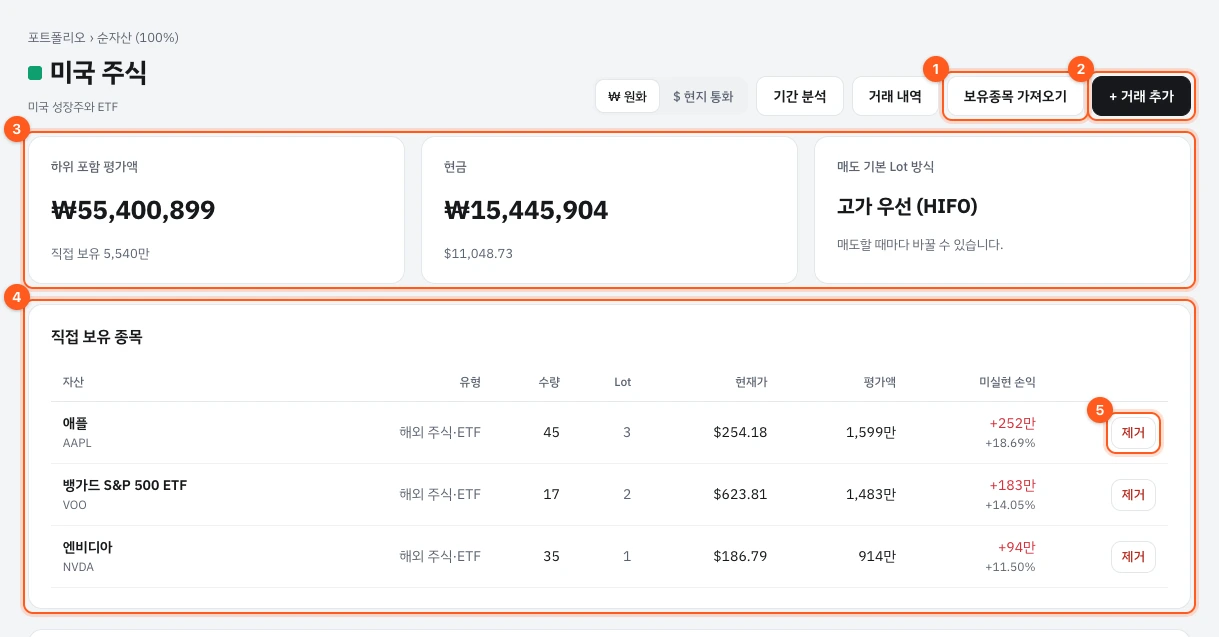
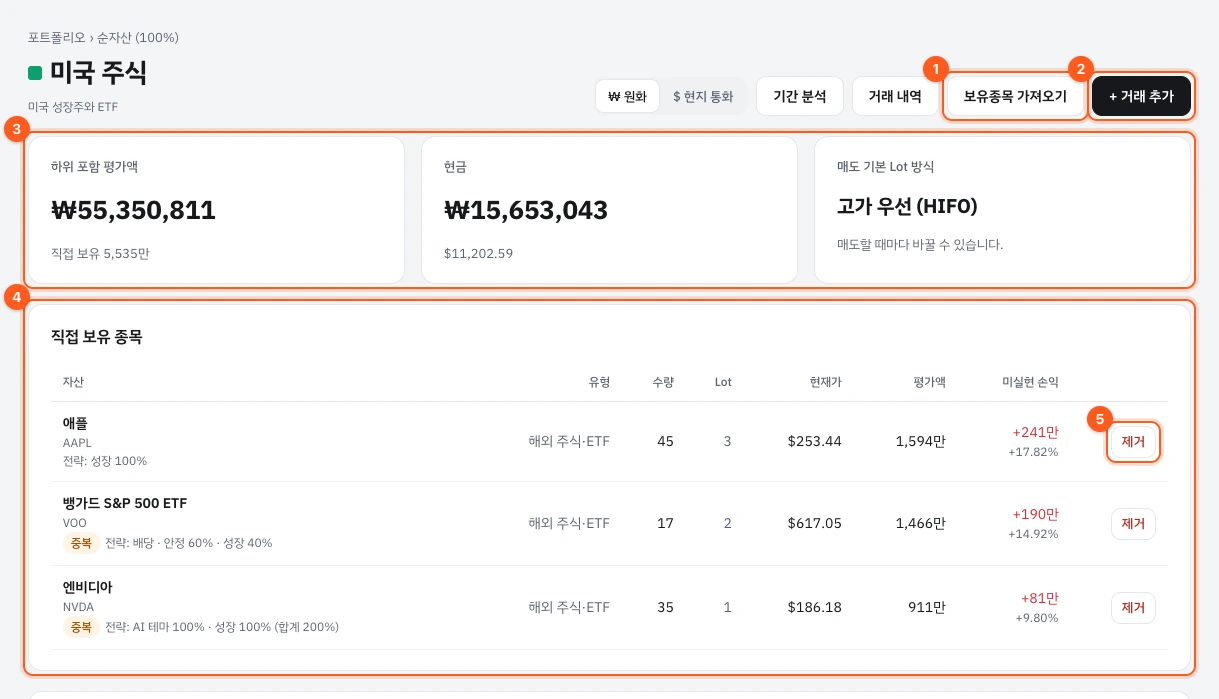
Document strategy portfolios, with their screens; retake the screens that now show strategies

diff --git a/scripts/docs/capture.ts b/scripts/docs/capture.ts
@@ -69,6 +69,8 @@ interface Ids {
   root: string;
   us: string;
   home: string;
+  /** A split strategy portfolio that shares holdings with the others */
+  growth: string;
   apartment: string;
   aapl: string;
   nvdaJournal: string;
@@ -120,6 +122,28 @@ const SHOTS: Shot[] = [
     wait: 1500,
     clip: [{ sel: '.page-head' }, { sel: '.card.kpi', closest: 'section' }, card('직접 보유 종목')],
     marks: [{ sel: 'a', text: '보유종목 가져오기', within: { sel: '.page-head' } }, { sel: 'a', text: '+ 거래 추가' }, { sel: '.card.kpi', closest: 'section' }, card('직접 보유 종목'), { sel: 'button', text: '제거', within: card('직접 보유 종목') }],
+  },
+  {
+    file: 'portfolio-strategies',
+    path: () => '/portfolios',
+    wait: 1200,
+    width: 1280,
+    clip: [{ sel: '#strategies' }],
+    marks: [{ sel: 'td', text: '겹쳐 담기 허용' }, { sel: '#strategies .badge', text: '중복' }, { sel: 'a', text: '분석', within: { sel: '#strategies' } }],
+  },
+  {
+    file: 'strategy-detail',
+    path: (ids) => `/portfolios/${ids.growth}`,
+    wait: 1500,
+    width: 1280,
+    clip: [{ sel: '.page-head' }, { sel: '.card.kpi', closest: 'section' }, card('담은 종목'), card('계좌에서 담기')],
+    marks: [
+      { sel: '.card.kpi', closest: 'section' },
+      { sel: '.share-form', within: card('담은 종목') },
+      { sel: '.strategy-tag', within: card('담은 종목') },
+      { sel: 'button', text: '빼기', within: card('담은 종목') },
+      { sel: 'button', text: '담기', within: card('계좌에서 담기') },
+    ],
   },
   {
     file: 'assets',
@@ -1049,6 +1073,7 @@ async function main() {
       equityStyle: (await db.traitGroup.findFirstOrThrow({ where: { preset: 'equityStyle' } })).id,
       samsung: (await db.holding.findFirstOrThrow({ where: { asset: { symbol: '005930' } } })).id,
       home: pid('부동산'),
+      growth: pid('성장'),
       apartment: (await db.holding.findFirstOrThrow({ where: { asset: { type: 'REAL_ESTATE' } } })).id,
       buffett: (await db.sage.findFirstOrThrow({ where: { preset: 'buffett' } })).id,
       book: (await db.book.findFirstOrThrow()).id,
